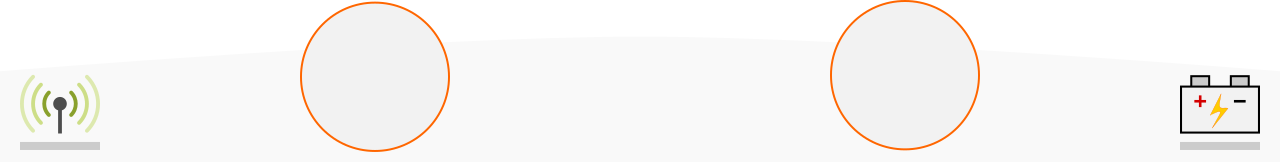
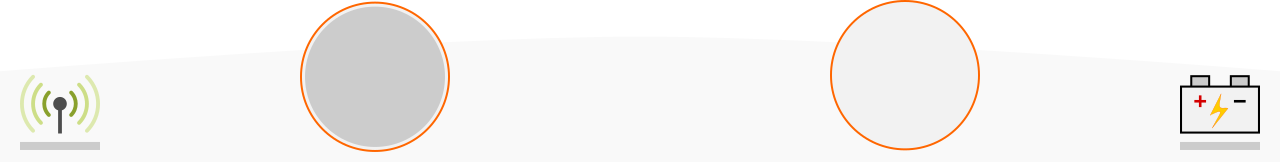
Add throttle bar and car name in cockpit

Changed region(s): [[0.2188, 0.0309, 0.375, 0.9259]]

diff --git a/tools/cockpit_overlay.py b/tools/cockpit_overlay.py
@@ -31,15 +31,23 @@ if __name__ == '__main__':
     img_steering = pyglet.resource.image("steering.png")
     img_steering.anchor_x = img_steering.width//2
     img_steering.anchor_y = 98
+    img_throttle_mask = pyglet.resource.image("throttle_mask.png")
+    img_throttle_mask.anchor_x = 145/2
+    img_throttle_mask.anchor_y = 145/2
     window.set_icon(img_steering)
 
     batch = pyglet.graphics.Batch()
+    grp1 = pyglet.graphics.Group(1)
     board = pyglet.sprite.Sprite(img=img_board, x=0, y=0, batch=batch)
-    steering = pyglet.sprite.Sprite(img=img_steering, x=window.width//2, y=14, batch=batch)
+    name_txt = pyglet.text.Label(car_info['name'][8:], x=window.width//2, y=80, font_size=25, color=(210, 210, 210, 255), anchor_x='center', batch=batch)
+    steering = pyglet.sprite.Sprite(img=img_steering, x=window.width//2, y=14, batch=batch, group=grp1)
     rssi_bar = pyglet.shapes.Rectangle(x=20, y=12, width=80, height=8, color=(0x00, 0x88, 0xAA), batch=batch)
     batt_bar = pyglet.shapes.Rectangle(x=1180, y=12, width=80, height=8, color=(0x00, 0x88, 0xAA), batch=batch)
     batt_txt = pyglet.text.Label('--', x=1170, y=12, font_size=20, color=(30, 30, 30, 255), anchor_x='right', batch=batch)
     rssi_txt = pyglet.text.Label('--', x=110, y=12, font_size=20, color=(30, 30, 30, 255), anchor_x='left', batch=batch)
+    throttle = pyglet.shapes.Sector(x=375, y=85, radius=70, angle=0, start_angle=-3*pi/4, color=(0, 0, 0, 255), batch=batch)
+    throttle_mask = pyglet.sprite.Sprite(img=img_throttle_mask, x=375, y=85, batch=batch, group=grp1)
+    thr_txt = pyglet.text.Label('--', x=375, y=78, font_size=18, color=(30, 30, 30, 255), anchor_x='center', batch=batch)
 
     @window.event
     def on_draw():
@@ -56,11 +64,23 @@ if __name__ == '__main__':
         volts = v/1024*8.8
         p = min(max(0, (volts-7)/(8.4-7)), 1)
         batt_bar.width = p*80
-        batt_txt.text = str(int(p*1000)/10) + '%'
+        batt_txt.text = str(round(p*1000)/10) + '%'
 
     def set_angle(v):
         a = 30*v/32768
         steering.rotation = a
+
+    def set_throttle(v):
+        p = v / 32768
+        if p >= 0:
+            throttle.start_angle = -2.23
+            throttle.angle = -4.71*p
+            throttle.color = (0x44, 0xAA, 0x00)
+        else:
+            throttle.start_angle = -0.78
+            throttle.angle = -4.83*p
+            throttle.color = (0xAA, 0x00, 0x00)
+        thr_txt.text = str(round(p*100)) + '%'
 
     def handle_msgs(dt):
         packet, sender = receiver.recv()
@@ -68,6 +88,7 @@ if __name__ == '__main__':
             msgs = decoder.decode(packet)
             for m in msgs:
                 if 'pilot_steering' in m:
+                    set_throttle(m['pilot_throttle'])
                     set_angle(m['pilot_steering'])
                 if 'batt_gauge' in m:
                     set_batt(m['batt_adc'])
